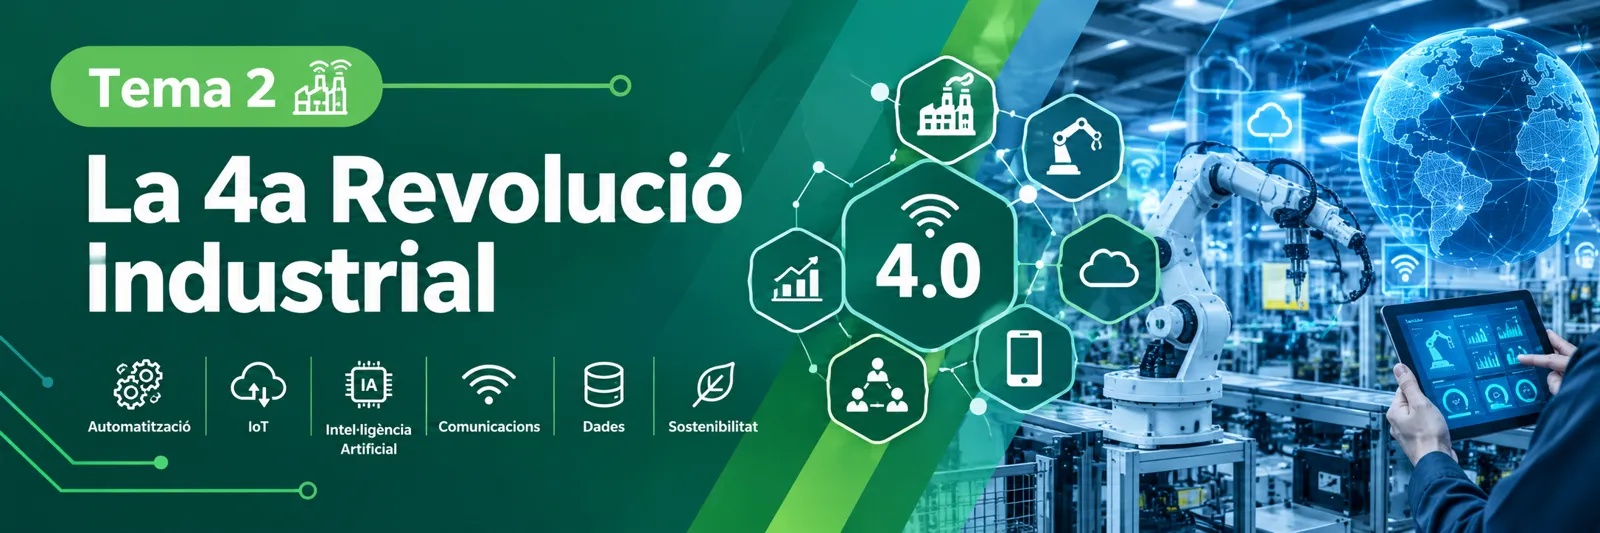
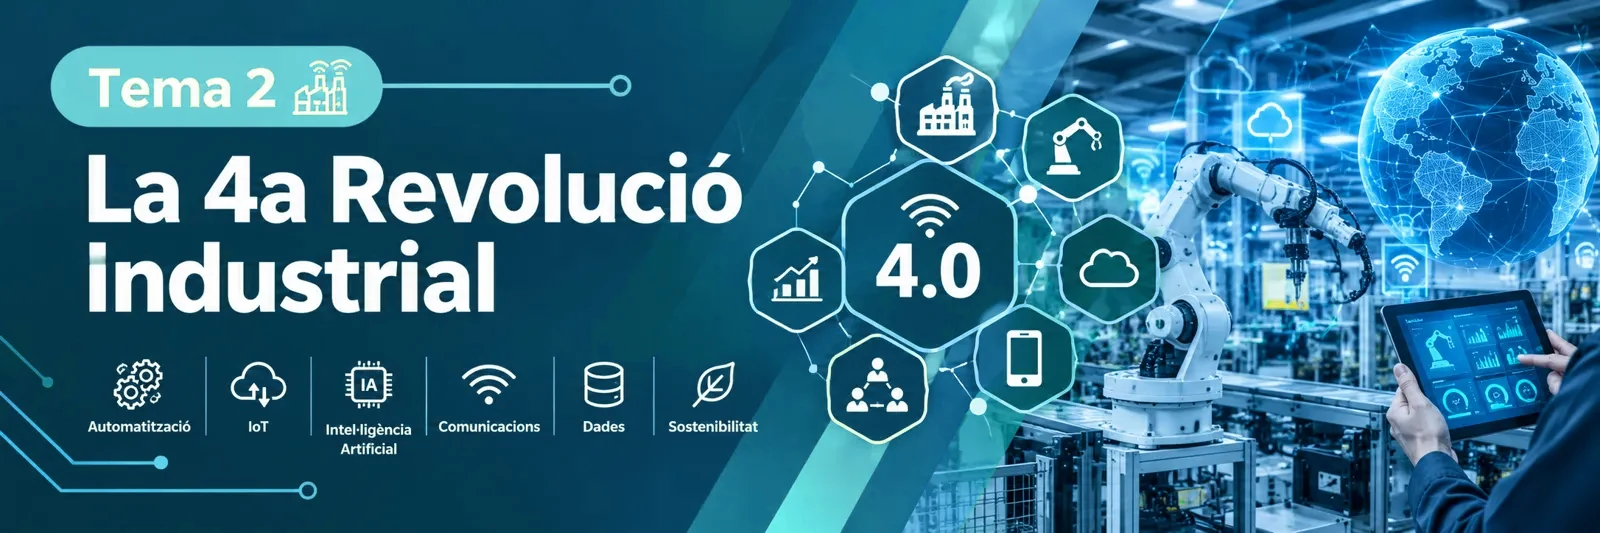
canvis de colors i mascota

diff --git a/tema-2/index.html b/tema-2/index.html
@@ -1,20 +1,24 @@
 <!DOCTYPE html>
 <html lang="ca"><head><meta charset="utf-8">
-<link rel="icon" href="../assets/img/brot.svg" type="image/svg+xml">
+<link rel="icon" href="../assets/img/bit.svg" type="image/svg+xml">
 <meta name="viewport" content="width=device-width, initial-scale=1, viewport-fit=cover">
 <title>Tema 2. La 4a Revolució Industrial | MP1664</title>
 <link rel="stylesheet" href="https://fonts.googleapis.com/css2?family=Bricolage+Grotesque:wght@500;700&family=Source+Serif+4:wght@400;600&display=swap">
 <link rel="stylesheet" href="../assets/css/estils.css">
 </head>
-<body>
-<svg width="0" height="0" style="position:absolute" aria-hidden="true"><symbol id="brot" viewBox="0 0 64 64">
-<path d="M32 22c-3-8-1-14 6-17 1 8-1 13-6 17z" fill="#8fc46b"/><path d="M32 22c-1-6-6-10-14-9 1 7 7 10 14 9z" fill="#6fae52"/><path d="M32 22v7" stroke="#2e7d4f" stroke-width="2.5" stroke-linecap="round"/>
-<ellipse cx="32" cy="42" rx="19" ry="17" fill="#5fbf84" stroke="#1f6a45" stroke-width="2.5"/>
-<circle cx="25" cy="39" r="4" fill="#fff"/><circle cx="39" cy="39" r="4" fill="#fff"/><circle cx="26" cy="40" r="2" fill="#12392a"/><circle cx="40" cy="40" r="2" fill="#12392a"/>
-<path d="M26 47q6 5 12 0" stroke="#12392a" stroke-width="2.2" fill="none" stroke-linecap="round"/><circle cx="20" cy="45" r="2.5" fill="#b6e39a" opacity=".8"/><circle cx="44" cy="45" r="2.5" fill="#b6e39a" opacity=".8"/></symbol></svg>
+<body class="ra2">
+<svg width="0" height="0" style="position:absolute" aria-hidden="true"><symbol id="bit" viewBox="0 0 64 64">
+<path d="M32 15V9" stroke="#2b2f7a" stroke-width="2.5" stroke-linecap="round"/><circle cx="32" cy="7" r="3.6" fill="#f2b45a" stroke="#2b2f7a" stroke-width="1.8"/>
+<rect x="6.5" y="29" width="7" height="13" rx="3.2" fill="#67d0e6" stroke="#2b2f7a" stroke-width="2"/><rect x="50.5" y="29" width="7" height="13" rx="3.2" fill="#67d0e6" stroke="#2b2f7a" stroke-width="2"/>
+<rect x="21" y="49" width="22" height="10" rx="4" fill="#4c57d8" stroke="#2b2f7a" stroke-width="2.2"/><circle cx="32" cy="54" r="1.8" fill="#67d0e6"/>
+<rect x="11.5" y="15" width="41" height="36" rx="12" fill="#6b76f0" stroke="#2b2f7a" stroke-width="2.5"/>
+<rect x="17" y="21.5" width="30" height="22" rx="8" fill="#12154a"/>
+<circle cx="25" cy="31" r="3.6" fill="#67d0e6"/><circle cx="39" cy="31" r="3.6" fill="#67d0e6"/><circle cx="26.2" cy="29.8" r="1.1" fill="#fff"/><circle cx="40.2" cy="29.8" r="1.1" fill="#fff"/>
+<path d="M27 37.5q5 4 10 0" stroke="#67d0e6" stroke-width="2.2" fill="none" stroke-linecap="round"/>
+</symbol></svg>
 <header class="top">
 <button id="mb" aria-label="Obre o tanca el menú">☰</button>
-<a class="brand" href="../"><svg width="36" height="36" role="img" aria-label="Brot, la mascota del mòdul"><use href="#brot"/></svg>MP1664 · Digitalització</a>
+<a class="brand" href="../"><svg width="36" height="36" role="img" aria-label="Bit, la mascota del mòdul"><use href="#bit"/></svg>MP1664 · Digitalització</a>
 <button id="th" aria-label="Canvia el mode clar o fosc">◐ Mode</button>
 </header>
 <div class="shell">
@@ -24,7 +28,7 @@
 <a class="t" href="../tema-2/" aria-current="page">Tema 2. La 4a Revolució Industrial</a><div class="sub"><a href="../tema-2/#s1">1. Les revolucions industrials</a><a href="../tema-2/#s2">2. Sistemes ciberfísics</a><a href="../tema-2/#s3">3. Sistemes automatitzats</a><a href="../tema-2/#s4">4. Part física i programari</a><a href="../tema-2/#s5">5. Món físic i món virtual</a><a href="../tema-2/#s6">6. Avantatges i riscos</a><a href="../tema-2/#s7">7. Perspectiva de gènere</a><a href="../tema-2/#s8">8. Per saber-ne més</a></div>
 <div class="soon">Tema 3. Sistemes basats en el núvol <i>(aviat)</i></div>
 <div class="soon">Tema 4. Sistemes digitalitzats i clàssics <i>(aviat)</i></div>
-<div class="soon">Projecte. Pla de transformació digital <i>(aviat)</i></div>
+<div class="soon">Tema 5. Pla de transformació digital · projecte <i>(aviat)</i></div>
 </aside>
 <main><img class="banner" src="../assets/img/banner-tema-2.webp" width="1600" height="533" alt="Banner del Tema 2, La 4a Revolució Industrial, amb icones de la indústria 4.0">
 <article class="pad">
@@ -45,7 +49,7 @@
 <h3>Què té de diferent la quarta?</h3>
 <p>El concepte d'<b>Indústria 4.0</b> es va usar per primer cop el 2011 a la fira de Hannover (Alemanya). El 2016 Klaus Schwab, fundador del Fòrum Econòmic Mundial, el va popularitzar amb el llibre <i>La quarta revolució industrial</i>: segons ell, no és una simple continuació de la tercera sinó una revolució pròpia per tres motius, la velocitat, l'abast i l'impacte en els sistemes. Els seus tres trets principals són:</p>
 <ul><li><b>Automatització.</b> Línies de producció més àgils i màquines cada cop més autònomes.</li><li><b>Virtualització.</b> Sensors connectats a màquines, IA, bessons digitals i models de simulació fan els processos més eficients.</li><li><b>Descentralització.</b> Les màquines poden prendre decisions pròpies, en temps real, segons les necessitats de la producció.</li></ul>
-<div class="ex"><div class="h"><svg width="30" height="30" aria-hidden="true"><use href="#brot"/></svg>Pensa-hi</div>
+<div class="ex"><div class="h"><svg width="30" height="30" aria-hidden="true"><use href="#bit"/></svg>Pensa-hi</div>
 <p>Associa cada tecnologia a la revolució en què es va generalitzar: a) la màquina de vapor; b) la cadena de muntatge; c) Internet; d) els bessons digitals i l'IoT.</p>
 <details><summary>Veure la solució</summary><div>a) 1a revolució. b) 2a revolució. c) 3a revolució. d) 4a revolució.</div></details></div>
 
@@ -56,7 +60,7 @@
 <p>Els CPS són avui el principal recurs de la indústria 4.0 per a la <b>fabricació intel·ligent</b>. Perquè cada sistema funcioni de manera independent s'utilitza el <b>núvol industrial</b>, que manté connectats el personal, la maquinària i els sensors de tota la cadena productiva. Les empreses contracten emmagatzematge i gestió en servidors externs i hi accedeixen per Internet.</p>
 <h3>Robòtica al núvol</h3>
 <p>Permet als robots aprofitar els recursos de còmput, d'emmagatzematge i de xarxa dels centres de dades. Així poden descarregar feina que no té terminis estrictes de temps real, cosa especialment útil per als robots mòbils, que gasten bateria. Les empreses poden «llogar» tecnologia i infraestructura a altres. Té dos inconvenients: la privacitat i la seguretat (d'aquí el terme <i>criptorrobòtica</i>) i els retards de comunicació entre el robot i el núvol.</p>
-<div class="ex"><div class="h"><svg width="30" height="30" aria-hidden="true"><use href="#brot"/></svg>Pensa-hi</div>
+<div class="ex"><div class="h"><svg width="30" height="30" aria-hidden="true"><use href="#bit"/></svg>Pensa-hi</div>
 <p>En un ascensor intel·ligent, quin és el sensor i quin l'actuador? Digues també quin problema tindria passar tot el control al núvol.</p>
 <details><summary>Veure la solució</summary><div>El sensor pot ser el que detecta el pes o si la porta és oberta; l'actuador és el motor que mou la cabina o obre la porta. Si depèn només del núvol, una pèrdua de connexió o un retard de comunicació podria afectar una acció que ha de ser immediata i segura.</div></details></div>
 
@@ -64,7 +68,7 @@
 <p>Els sistemes automatitzats fan tasques repetitives amb ordinadors, màquines o robots, de manera que cal menys mà d'obra i es redueixen costos. Combinen maquinari i aplicacions que operen els sistemes de control industrial i vigilen els resultats. L'operari supervisa des d'un panell anomenat <b>interfície home-màquina (HMI)</b>. Amb la quarta revolució, l'automatització s'ha integrat en la transformació digital de l'empresa.</p>
 <div class="cmp"><div><h3>Avantatges</h3><ul><li>Més productivitat i cicles de producció més curts.</li><li>Més precisió i qualitat.</li><li>Estalvi de costos.</li><li>Més seguretat: les màquines fan les tasques de risc.</li><li>Flexibilitat per ampliar o reduir el sistema.</li></ul></div>
 <div><h3>Desavantatges</h3><ul><li>Supressió de llocs de treball.</li><li>Costos inicials d'implantació.</li><li>Limitacions tècniques.</li><li>Menys interacció amb la clientela.</li><li>Dependència i pèrdua d'habilitats.</li></ul></div></div>
-<div class="ex"><div class="h"><svg width="30" height="30" aria-hidden="true"><use href="#brot"/></svg>Pensa-hi</div>
+<div class="ex"><div class="h"><svg width="30" height="30" aria-hidden="true"><use href="#bit"/></svg>Pensa-hi</div>
 <p>Una fàbrica de begudes automatitza l'ompliment d'ampolles. Escriu un avantatge i un desavantatge per a l'empresa, i un efecte per als treballadors.</p>
 <details><summary>Veure la solució</summary><div>Avantatge: més producció i menys errors. Desavantatge: inversió inicial alta. Efecte per als treballadors: les tasques repetitives desapareixen, però cal formar-se per supervisar les màquines (HMI) i fer-ne el manteniment, i alguns llocs de treball poden suprimir-se.</div></details></div>
 
@@ -88,7 +92,7 @@
 <g style="fill:var(--g)" font-size="13" font-weight="700"><text x="285" y="85">dades</text><text x="285" y="182">ordres</text></g></svg><figcaption>La relació és bidireccional: la part física envia informació i el programari la processa i torna ordres.</figcaption></figure>
 <h3>Casos reals</h3>
 <ul><li><b>Automoció.</b> Robots col·laboratius, sensors que controlen soldadures en temps real, SCADA que supervisa línies automatitzades.</li><li><b>Energia.</b> Parcs eòlics amb IoT per detectar avaries, centrals hidroelèctriques monitoritzades a distància, manteniment predictiu.</li><li><b>Alimentària.</b> Control de temperatura i humitat, visió artificial per detectar defectes i traçabilitat completa.</li><li><b>Petroquímica.</b> Sensors repartits per grans extensions, alarmes automàtiques de fuites i supervisió remota de processos perillosos.</li></ul>
-<div class="ex"><div class="h"><svg width="30" height="30" aria-hidden="true"><use href="#brot"/></svg>Pensa-hi</div>
+<div class="ex"><div class="h"><svg width="30" height="30" aria-hidden="true"><use href="#bit"/></svg>Pensa-hi</div>
 <p>En una cinta transportadora, un sensor detecta una caixa i el motor s'atura. Qui fa què: sensor, PLC, SCADA? I si es prefereix saber l'estat de la planta des de l'oficina?</p>
 <details><summary>Veure la solució</summary><div>El sensor detecta la caixa. El PLC executa el programa i ordena parar el motor. El SCADA és el que permet veure l'estat de la planta a distància, registrar alarmes i generar informes.</div></details></div>
 
@@ -100,7 +104,7 @@
 <tr><td>Realitat mixta</td><td>Combina totes dues. A una <i>smart factory</i> l'operari pot fer funcionar una màquina situada en un altre lloc.</td></tr>
 <tr><td>Bessó digital</td><td>Representació virtual d'un sistema o objecte que permet predir-ne el comportament futur.</td></tr></table></div>
 <p>Són especialment útils per formar els operaris. A les empreses, la realitat virtual serveix per desenvolupar habilitats, crear prototips virtuals, fer màrqueting, col·laborar globalment, visualitzar dades i millorar l'experiència del client.</p>
-<div class="ex"><div class="h"><svg width="30" height="30" aria-hidden="true"><use href="#brot"/></svg>Pensa-hi</div>
+<div class="ex"><div class="h"><svg width="30" height="30" aria-hidden="true"><use href="#bit"/></svg>Pensa-hi</div>
 <p>Una empresa vol formar operaris nous sense risc de fer malbé una màquina molt cara. Quina tecnologia triaries? I si volguessis predir quan s'avariarà?</p>
 <details><summary>Veure la solució</summary><div>Per formar-los, la realitat virtual, perquè simula la màquina i es pot practicar sense cap risc. Per predir avaries, un bessó digital, que reprodueix la màquina i anticipa el seu comportament.</div></details></div>
 
@@ -109,7 +113,7 @@
 <div class="cmp"><div><h3>Per a les empreses</h3><ul><li>Més eficiència i flexibilitat.</li><li>Millor presa de decisions amb dades.</li><li>Més seguretat i col·laboració.</li><li>Reducció de costos.</li><li>Més sostenibilitat: menys energia i més materials reciclats.</li></ul></div>
 <div><h3>Per als clients</h3><ul><li>Personalització.</li><li>Més qualitat.</li><li>Lliurament més ràpid.</li><li>Més transparència i seguretat.</li><li>Millor servei postvenda.</li></ul></div></div>
 <div class="box w"><b>Riscos.</b> La 4a revolució també té perills: desigualtat, riscos de ciberseguretat, interrupcions en indústries centrals i qüestions ètiques. Fins i tot Schwab considera la desigualtat la principal preocupació social.</div>
-<div class="ex"><div class="h"><svg width="30" height="30" aria-hidden="true"><use href="#brot"/></svg>Pensa-hi</div>
+<div class="ex"><div class="h"><svg width="30" height="30" aria-hidden="true"><use href="#bit"/></svg>Pensa-hi</div>
 <p>Una botiga en línia de sabatilles ofereix dissenys personalitzats i entrega ràpida gràcies a la fabricació digital. Quins avantatges té per al client i quin risc per a l'empresa?</p>
 <details><summary>Veure la solució</summary><div>Per al client: personalització i lliurament més ràpid. Per a l'empresa, un risc és la ciberseguretat: depèn de sistemes connectats i de dades de clients que s'han de protegir.</div></details></div>
 
@@ -121,7 +125,7 @@
 <tr><td>3a</td><td>Les escletxes de gènere digitals: en l'accés, en l'ús i en els beneficis de la tecnologia.</td></tr>
 <tr><td>4a (present)</td><td>Escletxa en la formació STEM en tecnologies emergents, situació laboral i polítiques públiques per reduir barreres.</td></tr>
 <tr><td>5a (futur)</td><td>Com les noves tecnologies poden ajudar o perjudicar la igualtat, idees per promoure-la a l'àmbit STEM i riscos si no es prenen mesures.</td></tr></table></div>
-<div class="ex"><div class="h"><svg width="30" height="30" aria-hidden="true"><use href="#brot"/></svg>Pensa-hi</div>
+<div class="ex"><div class="h"><svg width="30" height="30" aria-hidden="true"><use href="#bit"/></svg>Pensa-hi</div>
 <p>Escriu una mesura que una empresa industrial podria prendre per reduir l'escletxa de gènere en els llocs tècnics, i una raó per què beneficiaria l'empresa.</p>
 <details><summary>Veure una solució possible</summary><div>Per exemple, ofertes de pràctiques i de formació en automatització amb criteris d'igualtat, i referents femenines a l'equip. Beneficia l'empresa perquè amplia el talent disponible i aporta perspectives diferents a la innovació. Hi ha moltes respostes vàlides.</div></details></div>
 

diff --git a/tema-1/index.html b/tema-1/index.html
@@ -1,20 +1,24 @@
 <!DOCTYPE html>
 <html lang="ca"><head><meta charset="utf-8">
-<link rel="icon" href="../assets/img/brot.svg" type="image/svg+xml">
+<link rel="icon" href="../assets/img/bit.svg" type="image/svg+xml">
 <meta name="viewport" content="width=device-width, initial-scale=1, viewport-fit=cover">
 <title>Tema 1. Economia lineal i circular | MP1664</title>
 <link rel="stylesheet" href="https://fonts.googleapis.com/css2?family=Bricolage+Grotesque:wght@500;700&family=Source+Serif+4:wght@400;600&display=swap">
 <link rel="stylesheet" href="../assets/css/estils.css">
 </head>
-<body>
-<svg width="0" height="0" style="position:absolute" aria-hidden="true"><symbol id="brot" viewBox="0 0 64 64">
-<path d="M32 22c-3-8-1-14 6-17 1 8-1 13-6 17z" fill="#8fc46b"/><path d="M32 22c-1-6-6-10-14-9 1 7 7 10 14 9z" fill="#6fae52"/><path d="M32 22v7" stroke="#2e7d4f" stroke-width="2.5" stroke-linecap="round"/>
-<ellipse cx="32" cy="42" rx="19" ry="17" fill="#5fbf84" stroke="#1f6a45" stroke-width="2.5"/>
-<circle cx="25" cy="39" r="4" fill="#fff"/><circle cx="39" cy="39" r="4" fill="#fff"/><circle cx="26" cy="40" r="2" fill="#12392a"/><circle cx="40" cy="40" r="2" fill="#12392a"/>
-<path d="M26 47q6 5 12 0" stroke="#12392a" stroke-width="2.2" fill="none" stroke-linecap="round"/><circle cx="20" cy="45" r="2.5" fill="#b6e39a" opacity=".8"/><circle cx="44" cy="45" r="2.5" fill="#b6e39a" opacity=".8"/></symbol></svg>
+<body class="ra1">
+<svg width="0" height="0" style="position:absolute" aria-hidden="true"><symbol id="bit" viewBox="0 0 64 64">
+<path d="M32 15V9" stroke="#2b2f7a" stroke-width="2.5" stroke-linecap="round"/><circle cx="32" cy="7" r="3.6" fill="#f2b45a" stroke="#2b2f7a" stroke-width="1.8"/>
+<rect x="6.5" y="29" width="7" height="13" rx="3.2" fill="#67d0e6" stroke="#2b2f7a" stroke-width="2"/><rect x="50.5" y="29" width="7" height="13" rx="3.2" fill="#67d0e6" stroke="#2b2f7a" stroke-width="2"/>
+<rect x="21" y="49" width="22" height="10" rx="4" fill="#4c57d8" stroke="#2b2f7a" stroke-width="2.2"/><circle cx="32" cy="54" r="1.8" fill="#67d0e6"/>
+<rect x="11.5" y="15" width="41" height="36" rx="12" fill="#6b76f0" stroke="#2b2f7a" stroke-width="2.5"/>
+<rect x="17" y="21.5" width="30" height="22" rx="8" fill="#12154a"/>
+<circle cx="25" cy="31" r="3.6" fill="#67d0e6"/><circle cx="39" cy="31" r="3.6" fill="#67d0e6"/><circle cx="26.2" cy="29.8" r="1.1" fill="#fff"/><circle cx="40.2" cy="29.8" r="1.1" fill="#fff"/>
+<path d="M27 37.5q5 4 10 0" stroke="#67d0e6" stroke-width="2.2" fill="none" stroke-linecap="round"/>
+</symbol></svg>
 <header class="top">
 <button id="mb" aria-label="Obre o tanca el menú">☰</button>
-<a class="brand" href="../"><svg width="36" height="36" role="img" aria-label="Brot, la mascota del mòdul"><use href="#brot"/></svg>MP1664 · Digitalització</a>
+<a class="brand" href="../"><svg width="36" height="36" role="img" aria-label="Bit, la mascota del mòdul"><use href="#bit"/></svg>MP1664 · Digitalització</a>
 <button id="th" aria-label="Canvia el mode clar o fosc">◐ Mode</button>
 </header>
 <div class="shell">
@@ -24,7 +28,7 @@
 <a class="t" href="../tema-2/">Tema 2. La 4a Revolució Industrial</a>
 <div class="soon">Tema 3. Sistemes basats en el núvol <i>(aviat)</i></div>
 <div class="soon">Tema 4. Sistemes digitalitzats i clàssics <i>(aviat)</i></div>
-<div class="soon">Projecte. Pla de transformació digital <i>(aviat)</i></div>
+<div class="soon">Tema 5. Pla de transformació digital · projecte <i>(aviat)</i></div>
 </aside>
 <main><img class="banner" src="../assets/img/banner-tema-1.webp" width="1600" height="533" alt="Banner del Tema 1, Sostenibilitat: economia lineal i economia circular">
 <article class="pad">
@@ -44,7 +48,7 @@
 <div><h3>Economia circular</h3><p><b>Dissenyar → Produir → Consumir → Reutilitzar → Reciclar → tornar al cicle.</b> Al final de la vida útil s'aprofiten els components que encara serveixen, i s'evita l'obsolescència programada.</p></div></div>
 <figure><img src="../assets/img/economia-lineal-vs-circular.webp" alt="Infografia que compara el camí de l'economia lineal (extreure, produir, consumir i descartar) amb el cercle de l'economia circular, amb una taula comparativa" loading="lazy"><figcaption>Infografia del Moodle del mòdul. Mostra una versió simplificada de les R; més avall veurem les 10 R completes.</figcaption></figure>
 <div class="box"><b>Beneficis de l'EC.</b> Redueix el consum de recursos i de residus, crea llocs de treball i innovació, millora l'eficiència i la competitivitat de les empreses i ajuda a lluitar contra el canvi climàtic.</div>
-<div class="ex"><div class="h"><svg width="30" height="30" aria-hidden="true"><use href="#brot"/></svg>Pensa-hi</div>
+<div class="ex"><div class="h"><svg width="30" height="30" aria-hidden="true"><use href="#bit"/></svg>Pensa-hi</div>
 <p>Digues si cada cas és economia lineal o circular: a) una ampolla de plàstic d'un sol ús; b) un mòbil amb peces que es poden canviar; c) una samarreta de moda ràpida; d) un servei de lloguer de patinets.</p>
 <details><summary>Veure la solució</summary><div>a) Lineal. b) Circular. c) Lineal. d) Circular: es comparteix el producte en lloc de fabricar-ne un per persona.</div></details></div>
 
@@ -62,7 +66,7 @@
 <tr><td>Reciclar</td><td>Recuperar materials valuosos</td><td>Bateries recarregables 18650</td></tr>
 <tr><td>Recuperar</td><td>Últim recurs si les altres fallen</td><td>Incinerar per aprofitar-ne l'energia</td></tr></table></div>
 <div class="box w"><b>Compte.</b> Reciclar no és el mateix que ser circular. El reciclatge és una part de l'EC, però una economia que només recicla continua essent bàsicament lineal.</div>
-<div class="ex"><div class="h"><svg width="30" height="30" aria-hidden="true"><use href="#brot"/></svg>Pensa-hi</div>
+<div class="ex"><div class="h"><svg width="30" height="30" aria-hidden="true"><use href="#bit"/></svg>Pensa-hi</div>
 <p>Quina R aplica cada persona? a) Rebutja una bossa de plàstic a la botiga; b) compra un portàtil revisat per una empresa especialitzada; c) porta la cadira trencada al taller; d) porta la seva ampolla de casa.</p>
 <details><summary>Veure la solució</summary><div>a) Rebutjar. b) Recondicionar. c) Reparar. d) Reutilitzar.</div></details></div>
 
@@ -76,7 +80,7 @@
 <tr><td>Negoci verd</td><td>Ven productes i serveis ecològics i energies renovables</td><td>Impacte ambiental positiu o reduït</td></tr>
 <tr><td>Responsabilitat social corporativa</td><td>Integra l'impacte social i ambiental amb els objectius econòmics</td><td>Polítiques de sostenibilitat i transparència</td></tr>
 <tr><td>Serveis o recursos compartits</td><td>Ven l'ús, no el producte (lloguer, vehicles compartits)</td><td>Menys demanda de productes nous</td></tr></table></div>
-<div class="ex"><div class="h"><svg width="30" height="30" aria-hidden="true"><use href="#brot"/></svg>Pensa-hi</div>
+<div class="ex"><div class="h"><svg width="30" height="30" aria-hidden="true"><use href="#bit"/></svg>Pensa-hi</div>
 <p>Minar criptomonedes consumeix molta energia. Amb quin model d'empresa de la taula relacionaries una empresa que només busca el màxim benefici, sense mirar el seu impacte? I quin canvi la faria més sostenible?</p>
 <details><summary>Veure la solució</summary><div>Amb el model de producció convencional (o l'extractiu, si depèn de recursos naturals). Seria més sostenible si adoptés energies renovables i equips més eficients, és a dir, un model de producció neta.</div></details></div>
 
@@ -85,7 +89,7 @@
 <div class="box">Un smartphone, una tauleta o un portàtil poden tenir uns mil components, i molts contenen metalls pesants (beril·li, cadmi, plom) que s'acumulen al cos humà. De l'electrònica es pot recuperar fins al 98 % del pes, segons el dispositiu. Les bateries de liti s'han de reciclar per recuperar materials valuosos i evitar contaminar sòl i aigua.</div>
 <p><b>Un material sostenible</b> necessita poca o gens d'energia per generar-se, pot tenir moltes vides (reciclatge, compostatge, reutilització), compleix la normativa europea i espanyola i no està pensat per a l'obsolescència programada.</p>
 <figure><img src="../assets/img/la-historia-de-les-coses.webp" alt="Infografia de La història de les coses: les cinc fases del sistema lineal (extracció, producció, distribució, consum i descart) i per què el reciclatge no és suficient" loading="lazy"><figcaption>Infografia sobre <i>La història de les coses</i>, del Moodle del mòdul. Fixa't en el requadre «Per què el reciclatge no és suficient?».</figcaption></figure>
-<div class="ex"><div class="h"><svg width="30" height="30" aria-hidden="true"><use href="#brot"/></svg>Pensa-hi</div>
+<div class="ex"><div class="h"><svg width="30" height="30" aria-hidden="true"><use href="#bit"/></svg>Pensa-hi</div>
 <p>Per què reciclar no és suficient per tenir una economia circular?</p>
 <details><summary>Veure la solució</summary><div>Perquè quan es recicla el producte ja s'ha extret, fabricat i transportat, i molts materials no es poden separar bé. L'economia circular actua abans: redueix, reutilitza i repara, i només al final recicla.</div></details></div>
 
@@ -94,7 +98,7 @@
 <div><h3>Exemples d'EL</h3><ul><li><b>Moda ràpida.</b> Roba barata de vida curta que es llença després de poques vegades d'ús.</li><li><b>Envasos d'un sol ús.</b> No es recicla el 100 % del que es comercialitza.</li><li><b>Automoció.</b> Es pot reciclar només un 75 % dels components.</li><li><b>Electrònica.</b> Dispositius que queden obsolets ràpidament.</li><li><b>Agricultura convencional.</b> Pesticides i fertilitzants que contaminen sòl i aigua.</li></ul></div>
 <div><h3>Exemples d'EC</h3><ul><li><b>Disseny per reciclar.</b> L'alumini i el vidre es reciclen millor que els plàstics.</li><li><b>Recondicionament.</b> Mòbils i portàtils reparats i revenuts.</li><li><b>Lloguer i ús compartit.</b> Per exemple, patinets elèctrics a les ciutats.</li><li><b>Ecodisseny.</b> Pensar en tot el cicle de vida del producte.</li><li><b>Segona mà.</b> Allarga la vida útil i crea ocupació local.</li></ul></div></div>
 <p>Dos casos clàssics: l'<b>obsolescència programada</b> de les bombetes (EL) i els telèfons amb peces reemplaçables de <b>Fairphone</b> (EC). Un producte circular ha d'estar dissenyat per durar, per actualitzar-se amb connectors estàndard (com l'USB) i per poder-se reparar.</p>
-<div class="ex"><div class="h"><svg width="30" height="30" aria-hidden="true"><use href="#brot"/></svg>Pensa-hi</div>
+<div class="ex"><div class="h"><svg width="30" height="30" aria-hidden="true"><use href="#bit"/></svg>Pensa-hi</div>
 <p>Explica en dues línies per què un mòbil amb peces reemplaçables és un exemple d'economia circular i una bombeta feta per fondre's aviat, d'economia lineal.</p>
 <details><summary>Veure la solució</summary><div>El mòbil es pot reparar i actualitzar, així que el producte dura més i genera menys residu. La bombeta amb obsolescència programada es dissenya per acabar-se i substituir-se, de manera que es compra, s'usa poc i es llença.</div></details></div>
 
@@ -106,7 +110,7 @@
 <tr><td>Ecosistemes</td><td>Deforestació i contaminació de sòl i aigua</td><td>Menys pressió sobre el territori</td><td>15. Vida dels ecosistemes terrestres</td></tr></table></div>
 <p>L'Agenda 2030 de les Nacions Unides és un pla d'acció a favor de les persones, el planeta i la prosperitat. Aquí ens centrem en els ODS 12, 13 i 15.</p>
 <div class="box"><b>Què en diu la Unió Europea.</b> Segons el Parlament Europeu, la UE genera més de 2.100 milions de tones de residus l'any. Vol construir una economia circular i neutra en carboni per al 2050, i calcula que la transició podria crear uns 700.000 llocs de treball a la UE el 2030.</div>
-<div class="ex"><div class="h"><svg width="30" height="30" aria-hidden="true"><use href="#brot"/></svg>Pensa-hi</div>
+<div class="ex"><div class="h"><svg width="30" height="30" aria-hidden="true"><use href="#bit"/></svg>Pensa-hi</div>
 <p>Relaciona cada acció amb un ODS (12, 13 o 15): a) reduir els residus d'envasos; b) disminuir les emissions de CO₂ de la fabricació; c) evitar la tala d'arbres per obtenir fusta.</p>
 <details><summary>Veure la solució</summary><div>a) ODS 12, Producció i consum responsables. b) ODS 13, Acció pel clima. c) ODS 15, Vida dels ecosistemes terrestres.</div></details></div>
 

diff --git a/assets/css/estils.css b/assets/css/estils.css
@@ -1,14 +1,14 @@
-:root{--bg:#f1f6ef;--card:#fff;--ink:#16261d;--mute:#4d6356;--deep:#12392a;--g:#2e7d4f;--g2:#8fc46b;--line:#cfdecb;--hl:#e3f0dc;--warn:#fff6d8;box-sizing:border-box;padding-top:env(safe-area-inset-top,0px);padding-bottom:env(safe-area-inset-bottom,0px)}
-@media(prefers-color-scheme:dark){:root:not([data-theme="light"]){--bg:#0e1a14;--card:#15271d;--ink:#e5f0e6;--mute:#9db5a4;--deep:#07130d;--g:#5fbf84;--g2:#9fd77a;--line:#27402f;--hl:#1b3326;--warn:#33300f}}
-:root[data-theme="dark"]{--bg:#0e1a14;--card:#15271d;--ink:#e5f0e6;--mute:#9db5a4;--deep:#07130d;--g:#5fbf84;--g2:#9fd77a;--line:#27402f;--hl:#1b3326;--warn:#33300f}
+:root{--bg:#f3f5fb;--card:#fff;--ink:#141a33;--mute:#50577a;--deep:#1e2062;--g:#3d44c4;--g2:#9aa8ff;--line:#d5daed;--hl:#e6eaf9;--warn:#fff6d8;--on:#eef0ff;--on2:#d3d8f5;--on3:#b8bfe8;--hb:#4b52a8;--say:#2b2f7a;--btn:#12154a;--c1:#2e7d4f;--c1b:#8fc46b;--h1:#e3f0dc;--c2:#0e7490;--c2b:#67d0e6;--h2:#dff3f7;--c3:#b45309;--c3b:#f2b45a;--h3:#fbeed9;--c4:#8e3aa8;--c4b:#d9a3e8;--h4:#f3e5f8;--c5:#b3264a;--c5b:#f28ba5;--h5:#fbe4ea;box-sizing:border-box;padding-top:env(safe-area-inset-top,0px);padding-bottom:env(safe-area-inset-bottom,0px)}
+@media(prefers-color-scheme:dark){:root:not([data-theme="light"]){--bg:#0d1026;--card:#161a3a;--ink:#e6e9f7;--mute:#a5abd2;--deep:#080a1e;--g:#9aa6ff;--g2:#b3bcff;--line:#282d5c;--hl:#1d2250;--warn:#33300f;--say:#2b2f7a;--c1:#5fbf84;--c1b:#9fd77a;--h1:#1b3326;--c2:#5cc8e0;--c2b:#8fdcee;--h2:#12303a;--c3:#f2b45a;--c3b:#f7c97f;--h3:#3a2a12;--c4:#da9be8;--c4b:#e8bcf2;--h4:#2d1b38;--c5:#f28ba5;--c5b:#f7adc0;--h5:#3a1824}}
+:root[data-theme="dark"]{--bg:#0d1026;--card:#161a3a;--ink:#e6e9f7;--mute:#a5abd2;--deep:#080a1e;--g:#9aa6ff;--g2:#b3bcff;--line:#282d5c;--hl:#1d2250;--warn:#33300f;--say:#2b2f7a;--c1:#5fbf84;--c1b:#9fd77a;--h1:#1b3326;--c2:#5cc8e0;--c2b:#8fdcee;--h2:#12303a;--c3:#f2b45a;--c3b:#f7c97f;--h3:#3a2a12;--c4:#da9be8;--c4b:#e8bcf2;--h4:#2d1b38;--c5:#f28ba5;--c5b:#f7adc0;--h5:#3a1824}
 html{scroll-padding-top:calc(env(safe-area-inset-top,0px) + 70px)}
 *{box-sizing:border-box}
 body{margin:0;background:var(--bg);color:var(--ink);font:18px/1.65 "Source Serif 4",Georgia,serif}
 h1,h2,h3,.sans{font-family:"Bricolage Grotesque","Segoe UI",system-ui,sans-serif;line-height:1.15}
 a{color:var(--g)}:focus-visible{outline:3px solid var(--g2);outline-offset:2px}
-header.top{position:sticky;top:env(safe-area-inset-top,0px);z-index:5;background:var(--deep);color:#e8f4e3;display:flex;gap:.7rem;align-items:center;padding:.5rem clamp(.8rem,3vw,2rem)}
+header.top{position:sticky;top:env(safe-area-inset-top,0px);z-index:5;background:var(--deep);color:var(--on);display:flex;gap:.7rem;align-items:center;padding:.5rem clamp(.8rem,3vw,2rem)}
 header.top .brand{color:inherit;text-decoration:none;font:700 1.05rem "Bricolage Grotesque",system-ui,sans-serif;margin-right:auto;display:flex;align-items:center;gap:.5rem}
-header.top button{color:#e8f4e3;background:none;border:1px solid #3f6a52;font:inherit;font-size:.9rem;cursor:pointer;padding:.3rem .6rem;border-radius:6px}
+header.top button{color:var(--on);background:none;border:1px solid var(--hb);font:inherit;font-size:.9rem;cursor:pointer;padding:.3rem .6rem;border-radius:6px}
 #mb{display:none}
 .shell{display:grid;grid-template-columns:270px 1fr;max-width:1250px;margin:0 auto}
 aside#side{position:sticky;top:calc(env(safe-area-inset-top,0px) + 56px);align-self:start;max-height:calc(100vh - 60px);overflow:auto;padding:1.4rem 1rem 2rem 1.2rem;border-right:1px solid var(--line);font:.93rem/1.35 "Bricolage Grotesque",system-ui,sans-serif}
@@ -17,11 +17,11 @@ aside a:hover{background:var(--hl)}aside a[aria-current]{background:var(--hl);fo
 aside .t{font-weight:700;margin-top:.9rem}aside .sub a{padding-left:1.4rem;color:var(--mute)}
 aside .soon{padding:.3rem .6rem;color:var(--mute);opacity:.7;margin-top:.5rem}
 main{padding:0 clamp(1rem,4vw,2.5rem) 3rem;min-width:0;overflow-x:clip}
-.hero{background:var(--deep);color:#e8f4e3;margin:0 calc(-1*clamp(1rem,4vw,2.5rem));padding:2.6rem clamp(1rem,4vw,2.5rem);display:grid;grid-template-columns:1.1fr 1fr;gap:2rem;align-items:center}
-.hero h1{font-size:clamp(2rem,4.5vw,3.1rem);margin:.2rem 0 1rem}.hero p{color:#cfe3cb;max-width:34em}
-.btn{display:inline-block;background:var(--g2);color:#10281c;padding:.65rem 1.2rem;border-radius:999px;font:700 1rem "Bricolage Grotesque",system-ui,sans-serif;text-decoration:none}
+.hero{background:var(--deep);color:var(--on);margin:0 calc(-1*clamp(1rem,4vw,2.5rem));padding:2.6rem clamp(1rem,4vw,2.5rem);display:grid;grid-template-columns:1.1fr 1fr;gap:2rem;align-items:center}
+.hero h1{font-size:clamp(2rem,4.5vw,3.1rem);margin:.2rem 0 1rem}.hero p{color:var(--on2);max-width:34em}
+.btn{display:inline-block;background:var(--g2);color:var(--btn);padding:.65rem 1.2rem;border-radius:999px;font:700 1rem "Bricolage Grotesque",system-ui,sans-serif;text-decoration:none}
 .stats{display:flex;flex-wrap:wrap;gap:1rem 2.2rem;margin:1.8rem 0 0;padding:0;list-style:none}
-.stats b{display:block;font:700 2rem "Bricolage Grotesque",system-ui,sans-serif;color:var(--g2)}.stats span{font-size:.9rem;color:#b9d2b8}
+.stats b{display:block;font:700 2rem "Bricolage Grotesque",system-ui,sans-serif;color:var(--g2)}.stats span{font-size:.9rem;color:var(--on3)}
 h2{font-size:1.7rem;margin:2.8rem 0 .8rem}h3{font-size:1.2rem;margin:1.6rem 0 .4rem;color:var(--g)}
 .ra{background:var(--card);border:1px solid var(--line);border-left:6px solid var(--g);border-radius:10px;padding:1rem 1.3rem;margin:1rem 0}
 .ra.soonc{border-left-color:var(--line);opacity:.75}.ra h3{margin:0 0 .2rem;color:var(--ink)}.ra small{color:var(--mute);font-family:"Bricolage Grotesque",system-ui,sans-serif}
@@ -40,13 +40,13 @@ figure{margin:1.5rem 0}figure img{width:100%;height:auto;border-radius:10px;bord
 .ex ol,.ex ul{margin:.5rem 0}
 details{margin-top:.6rem}summary{cursor:pointer;font:700 .98rem "Bricolage Grotesque",system-ui,sans-serif;color:var(--g)}
 details>div{background:var(--hl);border-radius:8px;padding:.6rem 1rem;margin-top:.5rem}
-.say{display:flex;gap:.8rem;align-items:center;background:#1b4a36;border-radius:14px;padding:.7rem 1rem;color:#e8f4e3;margin-top:1.4rem;max-width:34em}
+.say{display:flex;gap:.8rem;align-items:center;background:var(--say);border-radius:14px;padding:.7rem 1rem;color:var(--on);margin-top:1.4rem;max-width:34em}
 footer{text-align:center;color:var(--mute);font-size:.88rem;padding:2rem 1rem;border-top:1px solid var(--line)}
 @media(max-width:860px){.shell{grid-template-columns:1fr}#mb{display:block}aside#side{display:none;position:static;max-height:none;border-right:0;border-bottom:1px solid var(--line)}aside#side.open{display:block}.hero,.cmp{grid-template-columns:1fr}.rs{columns:1}}
 @media(prefers-reduced-motion:no-preference){.loop{animation:spin 30s linear infinite;transform-origin:150px 215px}@keyframes spin{to{transform:rotate(360deg)}}}
 .tl{display:grid;grid-template-columns:repeat(4,1fr);gap:.8rem;margin:1.2rem 0}
 .tl>div{background:var(--card);border:1px solid var(--line);border-top:5px solid var(--g);border-radius:10px;padding:.8rem 1rem}
-.tl>div:nth-child(2){border-top-color:#5a9a5b}.tl>div:nth-child(3){border-top-color:#7fae5d}.tl>div:nth-child(4){border-top-color:var(--g2)}
+.tl>div:nth-child(2){border-top-color:color-mix(in srgb,var(--g) 70%,var(--g2))}.tl>div:nth-child(3){border-top-color:color-mix(in srgb,var(--g) 35%,var(--g2))}.tl>div:nth-child(4){border-top-color:var(--g2)}
 .tl h3{font-size:1rem;margin:0 0 .3rem;color:var(--g)}.tl p{font-size:.92rem;line-height:1.5;margin:0}
 .nx{display:flex;justify-content:space-between;margin-top:3rem}.nx span{color:var(--mute)}
 @media(max-width:860px){.tl{grid-template-columns:1fr 1fr}}@media(max-width:520px){.tl{grid-template-columns:1fr}}
@@ -55,3 +55,11 @@ footer{text-align:center;color:var(--mute);font-size:.88rem;padding:2rem 1rem;bo
 .intro{padding:1.8rem 0 0}.intro .lead{max-width:38em;margin:0 0 1.2rem}
 .stats2{display:flex;flex-wrap:wrap;gap:1rem 2.5rem;margin:1.8rem 0 0;padding:0;list-style:none}
 .stats2 b{display:block;font:700 2rem "Bricolage Grotesque",system-ui,sans-serif;color:var(--g)}.stats2 span{font-size:.9rem;color:var(--mute)}
+
+body.ra1{--g:var(--c1);--g2:var(--c1b);--hl:var(--h1)}
+body.ra2{--g:var(--c2);--g2:var(--c2b);--hl:var(--h2)}
+body.ra3{--g:var(--c3);--g2:var(--c3b);--hl:var(--h3)}
+body.ra4{--g:var(--c4);--g2:var(--c4b);--hl:var(--h4)}
+body.ra5{--g:var(--c5);--g2:var(--c5b);--hl:var(--h5)}
+.ra.r1{border-left-color:var(--c1)}.ra.r2{border-left-color:var(--c2)}.ra.r3{border-left-color:var(--c3)}.ra.r4{border-left-color:var(--c4)}.ra.r5{border-left-color:var(--c5)}
+.ra.soonc{border-left-width:6px}

diff --git a/index.html b/index.html
@@ -1,20 +1,25 @@
 <!DOCTYPE html>
 <html lang="ca"><head><meta charset="utf-8">
-<link rel="icon" href="assets/img/brot.svg" type="image/svg+xml">
+<link rel="icon" href="assets/img/bit.svg" type="image/svg+xml">
 <meta name="viewport" content="width=device-width, initial-scale=1, viewport-fit=cover">
+<meta name="description" content="Materials del mòdul MP1664 Digitalització aplicada als sectors productius (CFGM Sistemes microinformàtics i xarxes): economia circular, indústria 4.0, núvol, tecnologies facilitadores i pla de transformació digital.">
 <title>Digitalització aplicada als sectors productius | MP1664</title>
 <link rel="stylesheet" href="https://fonts.googleapis.com/css2?family=Bricolage+Grotesque:wght@500;700&family=Source+Serif+4:wght@400;600&display=swap">
 <link rel="stylesheet" href="assets/css/estils.css">
 </head>
 <body>
-<svg width="0" height="0" style="position:absolute" aria-hidden="true"><symbol id="brot" viewBox="0 0 64 64">
-<path d="M32 22c-3-8-1-14 6-17 1 8-1 13-6 17z" fill="#8fc46b"/><path d="M32 22c-1-6-6-10-14-9 1 7 7 10 14 9z" fill="#6fae52"/><path d="M32 22v7" stroke="#2e7d4f" stroke-width="2.5" stroke-linecap="round"/>
-<ellipse cx="32" cy="42" rx="19" ry="17" fill="#5fbf84" stroke="#1f6a45" stroke-width="2.5"/>
-<circle cx="25" cy="39" r="4" fill="#fff"/><circle cx="39" cy="39" r="4" fill="#fff"/><circle cx="26" cy="40" r="2" fill="#12392a"/><circle cx="40" cy="40" r="2" fill="#12392a"/>
-<path d="M26 47q6 5 12 0" stroke="#12392a" stroke-width="2.2" fill="none" stroke-linecap="round"/><circle cx="20" cy="45" r="2.5" fill="#b6e39a" opacity=".8"/><circle cx="44" cy="45" r="2.5" fill="#b6e39a" opacity=".8"/></symbol></svg>
+<svg width="0" height="0" style="position:absolute" aria-hidden="true"><symbol id="bit" viewBox="0 0 64 64">
+<path d="M32 15V9" stroke="#2b2f7a" stroke-width="2.5" stroke-linecap="round"/><circle cx="32" cy="7" r="3.6" fill="#f2b45a" stroke="#2b2f7a" stroke-width="1.8"/>
+<rect x="6.5" y="29" width="7" height="13" rx="3.2" fill="#67d0e6" stroke="#2b2f7a" stroke-width="2"/><rect x="50.5" y="29" width="7" height="13" rx="3.2" fill="#67d0e6" stroke="#2b2f7a" stroke-width="2"/>
+<rect x="21" y="49" width="22" height="10" rx="4" fill="#4c57d8" stroke="#2b2f7a" stroke-width="2.2"/><circle cx="32" cy="54" r="1.8" fill="#67d0e6"/>
+<rect x="11.5" y="15" width="41" height="36" rx="12" fill="#6b76f0" stroke="#2b2f7a" stroke-width="2.5"/>
+<rect x="17" y="21.5" width="30" height="22" rx="8" fill="#12154a"/>
+<circle cx="25" cy="31" r="3.6" fill="#67d0e6"/><circle cx="39" cy="31" r="3.6" fill="#67d0e6"/><circle cx="26.2" cy="29.8" r="1.1" fill="#fff"/><circle cx="40.2" cy="29.8" r="1.1" fill="#fff"/>
+<path d="M27 37.5q5 4 10 0" stroke="#67d0e6" stroke-width="2.2" fill="none" stroke-linecap="round"/>
+</symbol></svg>
 <header class="top">
 <button id="mb" aria-label="Obre o tanca el menú">☰</button>
-<a class="brand" href="./"><svg width="36" height="36" role="img" aria-label="Brot, la mascota del mòdul"><use href="#brot"/></svg>MP1664 · Digitalització</a>
+<a class="brand" href="./"><svg width="36" height="36" role="img" aria-label="Bit, la mascota del mòdul"><use href="#bit"/></svg>MP1664 · Digitalització</a>
 <button id="th" aria-label="Canvia el mode clar o fosc">◐ Mode</button>
 </header>
 <div class="shell">
@@ -24,22 +29,22 @@
 <a class="t" href="tema-2/">Tema 2. La 4a Revolució Industrial</a>
 <div class="soon">Tema 3. Sistemes basats en el núvol <i>(aviat)</i></div>
 <div class="soon">Tema 4. Sistemes digitalitzats i clàssics <i>(aviat)</i></div>
-<div class="soon">Projecte. Pla de transformació digital <i>(aviat)</i></div>
+<div class="soon">Tema 5. Pla de transformació digital · projecte <i>(aviat)</i></div>
 </aside>
 <main>
 <img class="banner" src="assets/img/banner-principal.webp" width="1600" height="533" alt="Banner del mòdul professional 1664 Digitalització, CFGM SMX, amb icones de núvol, servidor, xarxa i seguretat">
 <div class="intro"><h1 class="sr">Digitalització aplicada als sectors productius</h1>
-<p class="lead">Descobriràs com una empresa passa de produir, usar i llençar a produir de manera circular i connectada: economia circular, indústria 4.0, núvol i tecnologies facilitadores.</p>
-<ul class="stats2"><li><b>33</b><span>hores al centre</span></li><li><b>5</b><span>resultats d'aprenentatge</span></li><li><b>5</b><span>blocs de contingut</span></li></ul></div>
-<div class="say"><svg width="56" height="56" aria-hidden="true"><use href="#brot"/></svg><span>Hola, sóc el <b>Brot</b>! Et faré companyia pel llibre. Quan vegis una caixa de punts, para i pensa-hi abans de mirar la solució.</span></div>
+<p class="lead">Descobriràs com la digitalització transforma les empreses: de la fàbrica clàssica a la indústria 4.0, del servidor local al núvol i de l'economia lineal a la circular. Coneixeràs les tecnologies que ho fan possible (IoT, IA, big data, 5G, ciberseguretat…) i acabaràs dissenyant el pla de transformació digital d'una empresa del sector.</p>
+<ul class="stats2"><li><b>33</b><span>hores al centre</span></li><li><b>5</b><span>resultats d'aprenentatge</span></li><li><b>5</b><span>temes (el 5 és un projecte)</span></li></ul></div>
+<div class="say"><svg width="56" height="56" aria-hidden="true"><use href="#bit"/></svg><span>Hola, sóc en <b>Bit</b>! Et faré companyia pel llibre. Quan vegis una caixa de punts, para i pensa-hi abans de mirar la solució.</span></div>
 <h2>Els temes del mòdul</h2>
-<div class="bar" role="img" aria-label="Distribució d'hores: Tema 1, 6 h; Tema 2, 8 h; Tema 3, 5 h; Tema 4, 6 h; Projecte, 8 h">
-<span style="flex:6;background:#2e7d4f">T1 · 6 h</span><span style="flex:8;background:#5a9a5b">T2 · 8 h</span><span style="flex:5;background:#7fae5d">T3 · 5 h</span><span style="flex:6;background:#93b85d">T4 · 6 h</span><span style="flex:8;background:#12392a">Projecte · 8 h</span></div>
-<div class="ra"><h3><a href="tema-1/">Tema 1. Economia lineal i economia circular</a></h3><small>RA1 · 6 h · disponible</small><p style="margin:.4rem 0 0">Etapes dels dos models, impacte ambiental, reciclatge, casos reals i ODS.</p></div>
-<div class="ra"><h3><a href="tema-2/">Tema 2. La 4a Revolució Industrial</a></h3><small>RA2 · 8 h · disponible</small><p style="margin:.4rem 0 0">Revolucions industrials, sistemes ciberfísics, automatització, IoT, PLC i SCADA, realitat virtual i perspectiva de gènere.</p></div>
-<div class="ra soonc"><h3>Tema 3. Sistemes basats en el cloud/núvol</h3><small>RA3 · 5 h · aviat</small></div>
-<div class="ra soonc"><h3>Tema 4. Sistemes digitalitzats i sistemes clàssics</h3><small>RA4 · 6 h · aviat</small></div>
-<div class="ra soonc"><h3>Projecte. Pla de transformació digital</h3><small>RA5 · 8 h · aviat</small></div>
+<div class="bar" role="img" aria-label="Distribució d'hores: Tema 1, 6 h; Tema 2, 8 h; Tema 3, 5 h; Tema 4, 6 h; Tema 5 (projecte), 8 h">
+<span style="flex:6;background:#2e7d4f">T1 · 6 h</span><span style="flex:8;background:#0e7490">T2 · 8 h</span><span style="flex:5;background:#b45309">T3 · 5 h</span><span style="flex:6;background:#8e3aa8">T4 · 6 h</span><span style="flex:8;background:#b3264a">T5 · projecte · 8 h</span></div>
+<div class="ra r1"><h3><a href="tema-1/">Tema 1. Economia lineal i economia circular</a></h3><small>RA1 · 6 h · disponible</small><p style="margin:.4rem 0 0">Etapes dels dos models, impacte ambiental, reciclatge, casos reals i ODS.</p></div>
+<div class="ra r2"><h3><a href="tema-2/">Tema 2. La 4a Revolució Industrial</a></h3><small>RA2 · 8 h · disponible</small><p style="margin:.4rem 0 0">Revolucions industrials, sistemes ciberfísics, automatització, IoT, PLC i SCADA, realitat virtual i perspectiva de gènere.</p></div>
+<div class="ra soonc r3"><h3>Tema 3. Sistemes basats en el cloud/núvol</h3><small>RA3 · 5 h · aviat</small></div>
+<div class="ra soonc r4"><h3>Tema 4. Sistemes digitalitzats i sistemes clàssics</h3><small>RA4 · 6 h · aviat</small></div>
+<div class="ra soonc r5"><h3>Tema 5. Pla de transformació digital</h3><small>RA5 · 8 h · projecte · aviat</small></div>
 </main></div>
 <footer>Departament d'Informàtica · Institut F. Vidal i Barraquer · Tarragona<br>Material elaborat pel professorat del mòdul a partir dels apunts de MP1664 i amb l'ajuda de la IA.</footer>
 <script src="assets/js/main.js"></script>
